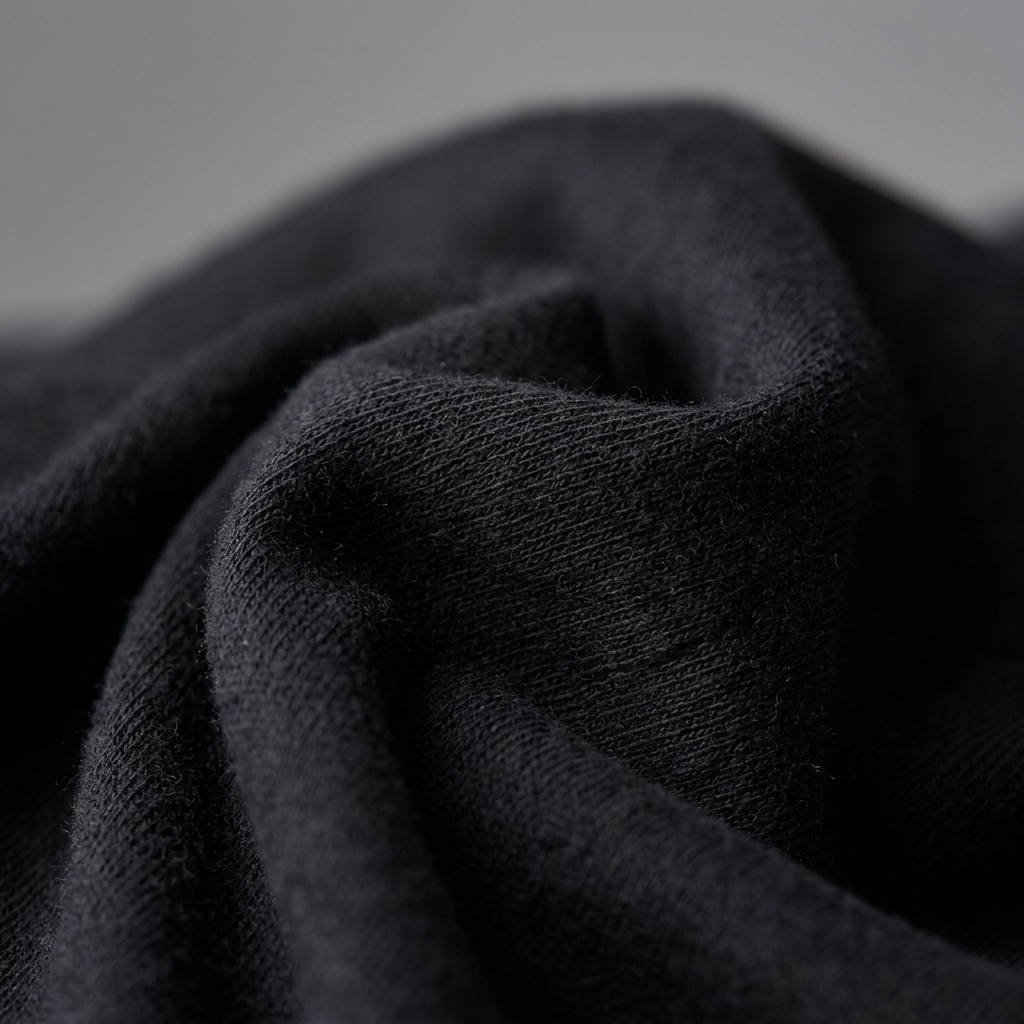
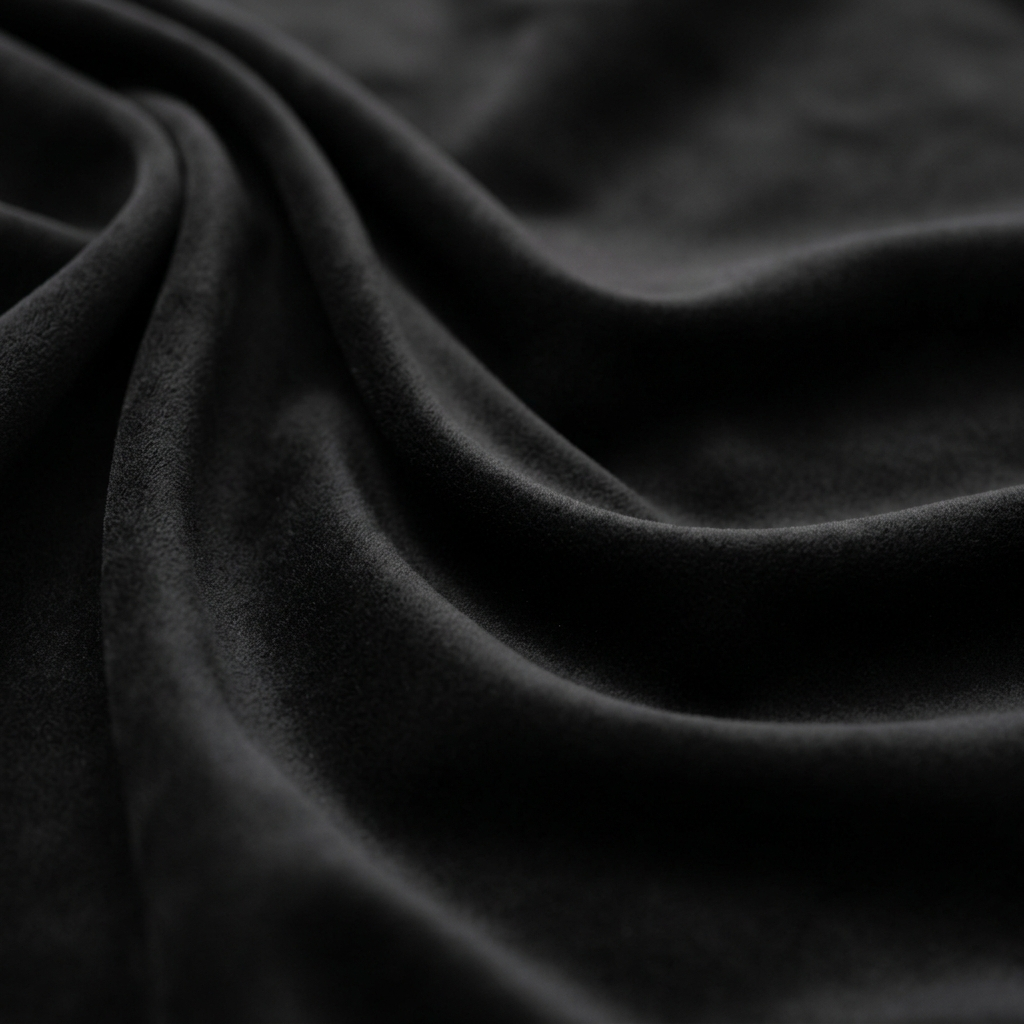
feat: optimize catalog texture realism, fix white tint bug, and balance baby pink color

diff --git a/src/components/CheckoutPage.jsx b/src/components/CheckoutPage.jsx
@@ -164,23 +164,44 @@ const CheckoutPage = () => {
     medidasImg = '/tallas_infantil.jpg';
   }
 
-  const isNegro = activeColor?.name.toLowerCase() === 'negro';
+  const colorNameLower = activeColor?.name.toLowerCase() || 'blanco';
+
+  let costuraImage = '/attr_costura.jpg';
+  let suavidadImage = '/attr_suavidad.jpg';
+
+  if (colorNameLower === 'negro') {
+    costuraImage = '/attr_costura_negro.png';
+    suavidadImage = '/attr_suavidad_negro.png';
+  } else if (colorNameLower === 'lila') {
+    costuraImage = '/attr_costura_lila.png';
+    suavidadImage = '/attr_suavidad_lila.png';
+  } else if (colorNameLower === 'menta') {
+    costuraImage = '/attr_costura_menta.png';
+    suavidadImage = '/attr_suavidad_menta.png';
+  } else if (colorNameLower === 'rosa baby') {
+    costuraImage = '/attr_costura_rosa_baby.png';
+    suavidadImage = '/attr_suavidad_rosa_baby.png';
+  } else if (colorNameLower === 'azul cielo') {
+    costuraImage = '/attr_costura_azul_cielo.png';
+    suavidadImage = '/attr_suavidad_azul_cielo.png';
+  }
+
   const galleryImages = [
     { id: 'tshirt', name: 'Vista General', icon: '👕' },
     { id: 'video', name: 'Video Real', icon: '▶️', isVideo: true, videoId: 'TF5nBZMDSMw' },
     { 
       id: 'costura', 
       name: 'Alta Costura', 
-      image: isNegro ? '/attr_costura_negro.png' : '/attr_costura.jpg', 
+      image: costuraImage, 
       icon: '🪡', 
-      needsTint: !isNegro 
+      needsTint: false 
     },
     { 
       id: 'suavidad', 
       name: 'Suavidad', 
-      image: isNegro ? '/attr_suavidad_negro.png' : '/attr_suavidad.jpg', 
+      image: suavidadImage, 
       icon: '🍑', 
-      needsTint: !isNegro 
+      needsTint: false 
     },
     { id: 'medidas', name: 'Tabla de Medidas', image: medidasImg, icon: '📏' },
   ];
@@ -459,19 +480,21 @@ const CheckoutPage = () => {
                   className="absolute inset-0 w-full h-full object-contain z-10" 
                 />
                 {/* Tinte de Color */}
-                <div 
-                  className={`absolute inset-0 w-full h-full object-contain mix-blend-multiply opacity-90 transition-colors duration-500 z-20 ${activeColor.tint}`}
-                  style={{ 
-                    maskImage: `url(${categoryData.image})`, 
-                    maskSize: 'contain', 
-                    maskRepeat: 'no-repeat', 
-                    maskPosition: 'center', 
-                    WebkitMaskImage: `url(${categoryData.image})`, 
-                    WebkitMaskSize: 'contain', 
-                    WebkitMaskRepeat: 'no-repeat', 
-                    WebkitMaskPosition: 'center' 
-                  }}
-                ></div>
+                {activeColor.name.toLowerCase() !== 'blanco' && (
+                  <div 
+                    className={`absolute inset-0 w-full h-full object-contain mix-blend-multiply opacity-90 transition-colors duration-500 z-20 ${activeColor.tint}`}
+                    style={{ 
+                      maskImage: `url(${categoryData.image})`, 
+                      maskSize: 'contain', 
+                      maskRepeat: 'no-repeat', 
+                      maskPosition: 'center', 
+                      WebkitMaskImage: `url(${categoryData.image})`, 
+                      WebkitMaskSize: 'contain', 
+                      WebkitMaskRepeat: 'no-repeat', 
+                      WebkitMaskPosition: 'center' 
+                    }}
+                  ></div>
+                )}
               </div>
             ) : galleryImages[activeGalleryIndex].isVideo ? (
               <div className="relative w-full h-full z-20 flex items-center justify-center rounded-[2rem] overflow-hidden drop-shadow-xl bg-black">
@@ -488,7 +511,7 @@ const CheckoutPage = () => {
                 <img 
                   src={galleryImages[activeGalleryIndex].image} 
                   alt={galleryImages[activeGalleryIndex].name} 
-                  className={`w-full h-full rounded-[2rem] ${galleryImages[activeGalleryIndex].id === 'medidas' ? 'object-contain bg-white p-6' : 'object-cover'} ${galleryImages[activeGalleryIndex].needsTint ? 'grayscale contrast-125 brightness-110' : ''}`} 
+                  className={`w-full h-full rounded-[2rem] ${galleryImages[activeGalleryIndex].id === 'medidas' ? 'object-contain bg-white p-6' : 'object-cover'} ${galleryImages[activeGalleryIndex].needsTint ? 'grayscale contrast-125 brightness-110' : ''} ${activeColor?.name.toLowerCase() === 'rosa baby' && galleryImages[activeGalleryIndex].id === 'suavidad' ? 'hue-rotate-[-13deg] saturate-[1.25] brightness-[1.03]' : ''} ${activeColor?.name.toLowerCase() === 'blanco' && (galleryImages[activeGalleryIndex].id === 'costura' || galleryImages[activeGalleryIndex].id === 'suavidad') ? 'grayscale saturate-0 brightness-[1.28] contrast-[0.98]' : ''}`} 
                   onError={(e) => {
                     e.target.onerror = null; 
                     e.target.src = `https://placehold.co/600x600/f3f4f6/a1a1aa?text=${encodeURIComponent(galleryImages[activeGalleryIndex].name)}`;
@@ -521,8 +544,10 @@ const CheckoutPage = () => {
                   <div className="w-full h-full bg-gray-50 flex items-center justify-center p-3">
                     <div className="relative w-full h-full">
                       <img src={categoryData.image} alt="Tshirt" className="absolute inset-0 w-full h-full object-contain p-0.5" />
-                      <div className={`absolute inset-0 w-full h-full mix-blend-multiply opacity-90 p-0.5 ${activeColor.tint}`} 
-                           style={{ maskImage: `url(${categoryData.image})`, maskSize: 'contain', maskPosition: 'center', maskRepeat: 'no-repeat', WebkitMaskImage: `url(${categoryData.image})`, WebkitMaskSize: 'contain', WebkitMaskPosition: 'center', WebkitMaskRepeat: 'no-repeat' }}></div>
+                      {activeColor.name.toLowerCase() !== 'blanco' && (
+                        <div className={`absolute inset-0 w-full h-full mix-blend-multiply opacity-90 p-0.5 ${activeColor.tint}`} 
+                             style={{ maskImage: `url(${categoryData.image})`, maskSize: 'contain', maskPosition: 'center', maskRepeat: 'no-repeat', WebkitMaskImage: `url(${categoryData.image})`, WebkitMaskSize: 'contain', WebkitMaskPosition: 'center', WebkitMaskRepeat: 'no-repeat' }}></div>
+                      )}
                     </div>
                   </div>
                 ) : (
@@ -530,7 +555,7 @@ const CheckoutPage = () => {
                     <img 
                       src={item.isVideo ? `https://img.youtube.com/vi/${item.videoId}/0.jpg` : item.image} 
                       alt={item.name} 
-                      className={`w-full h-full ${item.id === 'medidas' ? 'object-contain bg-white p-2.5' : 'object-cover'} ${item.needsTint ? 'grayscale contrast-125 brightness-110' : ''}`} 
+                      className={`w-full h-full ${item.id === 'medidas' ? 'object-contain bg-white p-2.5' : 'object-cover'} ${item.needsTint ? 'grayscale contrast-125 brightness-110' : ''} ${activeColor?.name.toLowerCase() === 'rosa baby' && item.id === 'suavidad' ? 'hue-rotate-[-13deg] saturate-[1.25] brightness-[1.03]' : ''} ${activeColor?.name.toLowerCase() === 'blanco' && (item.id === 'costura' || item.id === 'suavidad') ? 'grayscale saturate-0 brightness-[1.28] contrast-[0.98]' : ''}`} 
                       onError={(e) => {
                         e.target.onerror = null; 
                         e.target.src = `https://placehold.co/150x150/f3f4f6/a1a1aa?text=${encodeURIComponent(item.icon)}`;